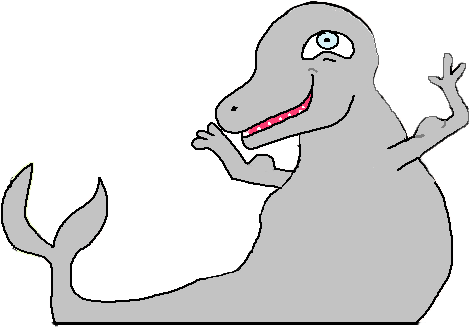
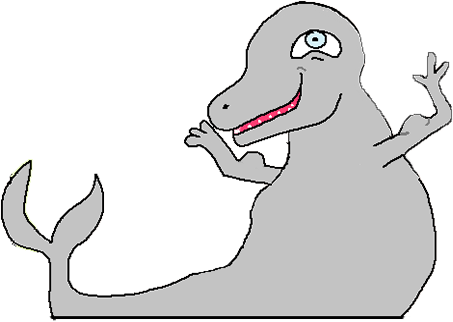
spill #3 - Cropped the seal-glad img and fixed the correct position of the seal
- The image of the seal should be displayed on same position all the time now. Before it jumped below and created a new image before

diff --git a/spill3.html b/spill3.html
@@ -70,10 +70,8 @@
           <div class="seal-speech-bubble"></div>
           <section class="images">
             <div class="seal-open-close">
-              <img class="seal-close" />
-              <img class="seal-open" />
-              <img class="seal-sad" />
               <img class="seal-happy" />
+              <img class="seal-sad" />
             </div>
             <div class="seal-happy-sad "></div>
           </section>

diff --git a/assets/js/spill-3/main.js b/assets/js/spill-3/main.js
@@ -173,6 +173,7 @@ document.addEventListener('DOMContentLoaded', e => {
 
           images.firstElementChild.classList.remove('seal-open-close');
 
+          sealSad.src = '';
           sealHappy.src = './assets/img/spill-3/seal-glad.png';
 
           itemObjects.style.animationPlayState = 'paused';

diff --git a/assets/css/spill-3.css b/assets/css/spill-3.css
@@ -68,6 +68,10 @@ h4 {
   left: 40%;
 }
 
+.sel-glad {
+  bottom: 50%;
+}
+
 .seal-open-close {
   position: relative;
   width: 31rem;
